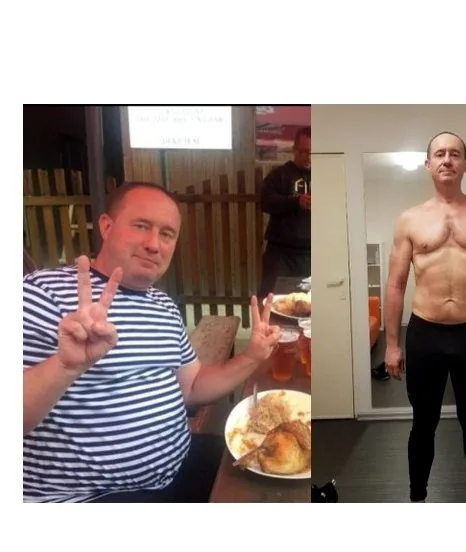
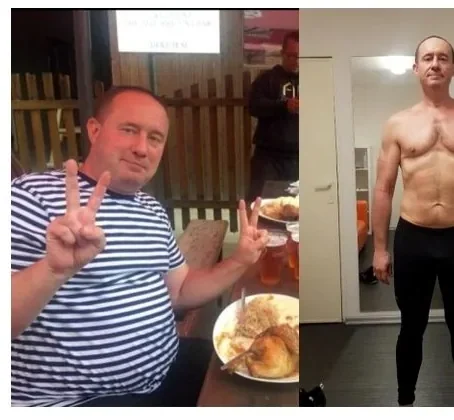
Proměny: Kuba fotka oříznuta (bílý okraj pryč, fill jako ostatní) + unsubscribe erase (#204)
- kuba.webp: oříznut zapečený bílý okraj (96px nahoře/36 dole) → 454x420,
  fotka teď vyplní rámeček edge-to-edge jako tomas/katka; .kuba-img width:100%;
  cache-bust ?v=2 (stejný název souboru). Ostatní proměny ověřeny — čisté.
- unsubscribe funkce: doplněna možnost úplného smazání dat (?action=erase,
  GDPR právo na výmaz) + nabídka na potvrzovací stránce.

Claude-Session: https://claude.ai/code/session_019Jo2yuKP3BRVxsQJB6Fxiu

diff --git a/akademie/_supabase/functions/unsubscribe/index.ts b/akademie/_supabase/functions/unsubscribe/index.ts
@@ -1,36 +1,65 @@
-// Barna Academy - unsubscribe (one-click odhlaseni z dripu). Deno, deploy --no-verify-jwt.
+// Barna Academy - unsubscribe + erase (odhlaseni z dripu + plne smazani dat ze zakona). Deno, deploy --no-verify-jwt.
 // Autentizace = neuhadnutelny token (leads.unsubscribe_token, UUID) v URL.
-// GET = odhlasi + pratelska HTML stranka; POST = RFC 8058 One-Click (List-Unsubscribe-Post).
-// Service-role jen z env. Zdrojak bez znaku uvozovek a zpetnych lomitek (kvuli deployi).
+// GET = odhlasi + pratelska HTML stranka s nabidkou uplneho smazani;
+// GET ?action=erase = nadobro smaze cely zaznam leadu (pravo na vymaz, GDPR cl. 17);
+// POST = RFC 8058 One-Click (List-Unsubscribe-Post).
+// Service-role jen z env. Zdrojak bez znaku dvojitych uvozovek a zpetnych lomitek (kvuli deployi).
 import { createClient } from 'jsr:@supabase/supabase-js@2';
 
 const SUPABASE_URL = Deno.env.get('SUPABASE_URL')!;
 const SERVICE_ROLE = Deno.env.get('SUPABASE_SERVICE_ROLE_KEY')!;
 const SITE = 'https://martinbarna.cz';
 
-const page = (title: string, msg: string) =>
-  `<!doctype html><html lang='cs'><head><meta charset='utf-8'><meta name='viewport' content='width=device-width,initial-scale=1'><title>${title}</title></head><body style='font-family:-apple-system,Segoe UI,Roboto,Arial,sans-serif;background:#f4f4f5;margin:0;padding:40px'><div style='max-width:480px;margin:0 auto;background:#fff;border-radius:14px;padding:32px;text-align:center;color:#222'><h1 style='font-size:20px;margin:0 0 12px'>${title}</h1><p style='line-height:1.55;color:#444;margin:0 0 20px'>${msg}</p><a href='${SITE}' style='display:inline-block;background:#ff7a00;color:#161616;text-decoration:none;padding:12px 22px;border-radius:50px;font-weight:700'>Zpět na martinbarna.cz</a></div></body></html>`;
+function admin() { return createClient(SUPABASE_URL, SERVICE_ROLE, { auth: { persistSession: false } }); }
+
+const page = (title: string, msg: string, extra = '') =>
+  `<!doctype html><html lang='cs'><head><meta charset='utf-8'><meta name='viewport' content='width=device-width,initial-scale=1'><title>${title}</title></head><body style='font-family:-apple-system,Segoe UI,Roboto,Arial,sans-serif;background:#f4f4f5;margin:0;padding:40px'><div style='max-width:480px;margin:0 auto;background:#fff;border-radius:14px;padding:32px;text-align:center;color:#222'><h1 style='font-size:20px;margin:0 0 12px'>${title}</h1><p style='line-height:1.55;color:#444;margin:0 0 18px'>${msg}</p>${extra}<a href='${SITE}' style='display:inline-block;background:#ff7a00;color:#161616;text-decoration:none;padding:12px 22px;border-radius:50px;font-weight:700'>Zpět na martinbarna.cz</a></div></body></html>`;
 
 const htmlResp = (html: string, status = 200) =>
   new Response(html, { status, headers: { 'Content-Type': 'text/html; charset=utf-8' } });
 
 async function unsubscribe(token: string): Promise<boolean> {
   if (!token || token === 'test-no-op') return false;
-  const admin = createClient(SUPABASE_URL, SERVICE_ROLE, { auth: { persistSession: false } });
-  const { data, error } = await admin.from('leads')
+  const { data, error } = await admin().from('leads')
     .update({ status: 'unsubscribed', updated_at: new Date().toISOString() })
     .eq('unsubscribe_token', token).select('id');
   if (error) return false;
   return (data?.length ?? 0) > 0;
 }
 
+// Pravo na vymaz: nadobro smaze radek leadu (e-mail, jmeno, vse). Souvisejici radky
+// (drip_log apod.) je nutne mit s ON DELETE CASCADE, jinak doplnit mazani i tam.
+async function erase(token: string): Promise<boolean> {
+  if (!token || token === 'test-no-op') return false;
+  const { data, error } = await admin().from('leads')
+    .delete().eq('unsubscribe_token', token).select('id');
+  if (error) return false;
+  return (data?.length ?? 0) > 0;
+}
+
 Deno.serve(async (req: Request) => {
-  const token = new URL(req.url).searchParams.get('token') || '';
+  const url = new URL(req.url);
+  const token = url.searchParams.get('token') || '';
+  const action = url.searchParams.get('action') || '';
+
+  // RFC 8058 One-Click (tlacitko v Gmailu/Apple Mail)
   if (req.method === 'POST') { await unsubscribe(token); return new Response('ok', { status: 200 }); }
+
   if (req.method === 'GET') {
+    // Pravo na vymaz vsech dat
+    if (action === 'erase') {
+      const ok = await erase(token);
+      return htmlResp(ok
+        ? page('Smazáno ✅', 'Hotovo — všechna tvoje data (e-mail i jméno) jsme z databáze nadobro smazali. Už Ti nic nepřijde.')
+        : page('Odkaz nefunguje', 'Tenhle odkaz už neplatí nebo byla data smazána dřív. Kdyžtak nám napiš a vyřešíme to.'));
+    }
+    // Bezne odhlaseni z marketingu + nabidka uplneho smazani
     const ok = await unsubscribe(token);
+    const eraseLink = ok
+      ? `<p style='margin:0 0 18px'><a href='${url.origin}${url.pathname}?token=${encodeURIComponent(token)}&amp;action=erase' style='color:#888;font-size:13px;text-decoration:underline'>Chceš navíc úplně smazat svoje data z databáze? Klikni sem</a></p>`
+      : '';
     return htmlResp(ok
-      ? page('Odhlášeno ✅', 'Hotovo — už Ti žádné marketingové e-maily nepřijdou. Kdyby sis to rozmyslel/a, stačí si plán znovu stáhnout na webu.')
+      ? page('Odhlášeno ✅', 'Hotovo — už Ti žádné marketingové e-maily nepřijdou. Kdyby sis to rozmyslel/a, stačí si plán znovu stáhnout na webu.', eraseLink)
       : page('Odkaz nefunguje', 'Tenhle odhlašovací odkaz už neplatí nebo je neúplný. Když budeš chtít, napiš nám přímo a vyřešíme to.'));
   }
   return new Response('method-not-allowed', { status: 405 });

diff --git a/index.html b/index.html
@@ -349,7 +349,7 @@
         .story-card { border:1px solid #f0ece6; box-shadow:0 10px 30px rgba(0,0,0,.06); overflow:hidden; }
         .story-card img.smed { width:100%; height:auto; border-radius:12px; display:block; }
         .rm-media { padding:1rem; }
-        .kuba-img { max-width:300px; margin-left:auto; margin-right:auto; }
+        .kuba-img { width:100%; display:block; }
         .story-duo { display:flex; gap:8px; }
         .story-duo img { width:calc(50% - 4px); height:auto; border-radius:10px; display:block; }
         .role-badge { display:inline-block; background:var(--green); color:#161616; font-size:.74rem; font-weight:700; padding:4px 12px; border-radius:50px; }
@@ -724,7 +724,7 @@
                 <div class="card story-card">
                     <div class="row g-0 align-items-center">
                         <div class="col-md-5 rm-media">
-                            <img class="smed kuba-img" src="assets/foto/promeny/kuba.webp" alt="Kuba Navrátil — proměna před a po" width="466" height="552" loading="lazy" decoding="async">
+                            <img class="smed kuba-img" src="assets/foto/promeny/kuba.webp?v=2" alt="Kuba Navrátil — proměna před a po" width="454" height="420" loading="lazy" decoding="async">
                         </div>
                         <div class="col-md-7 p-4 p-lg-5">
                             <span class="role-badge">Vytížený podnikatel</span>